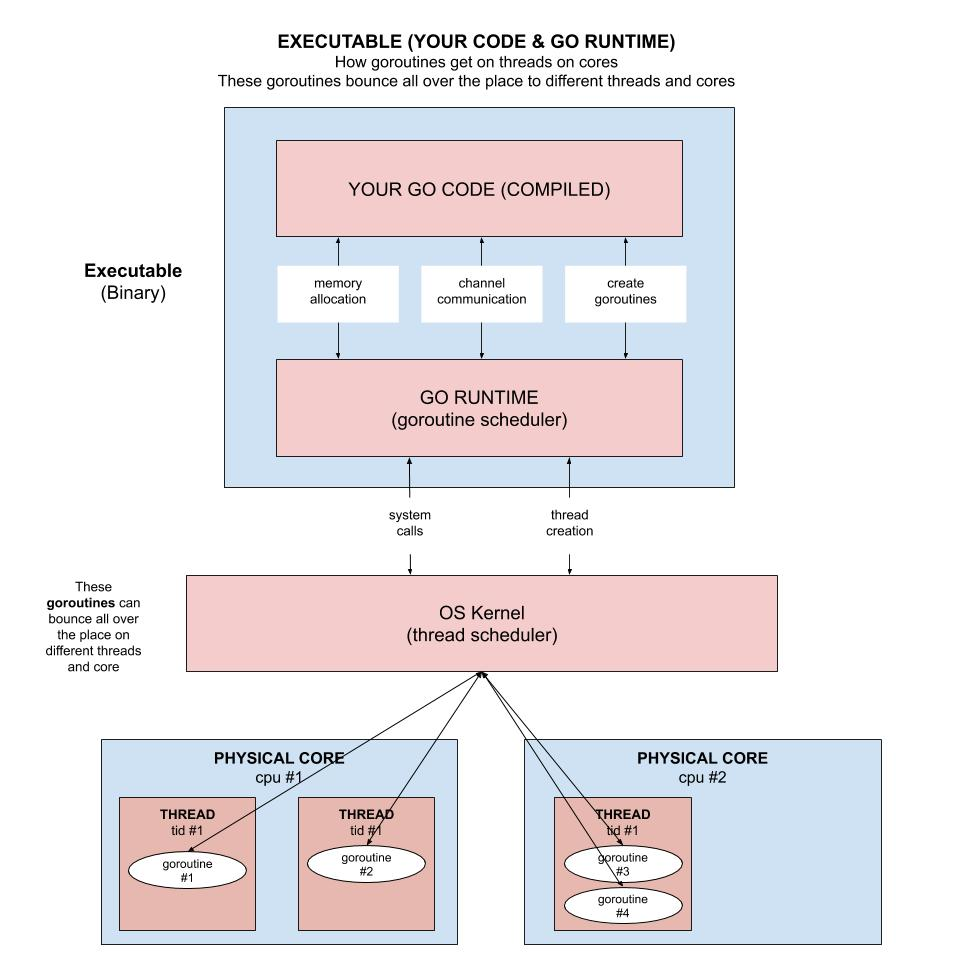
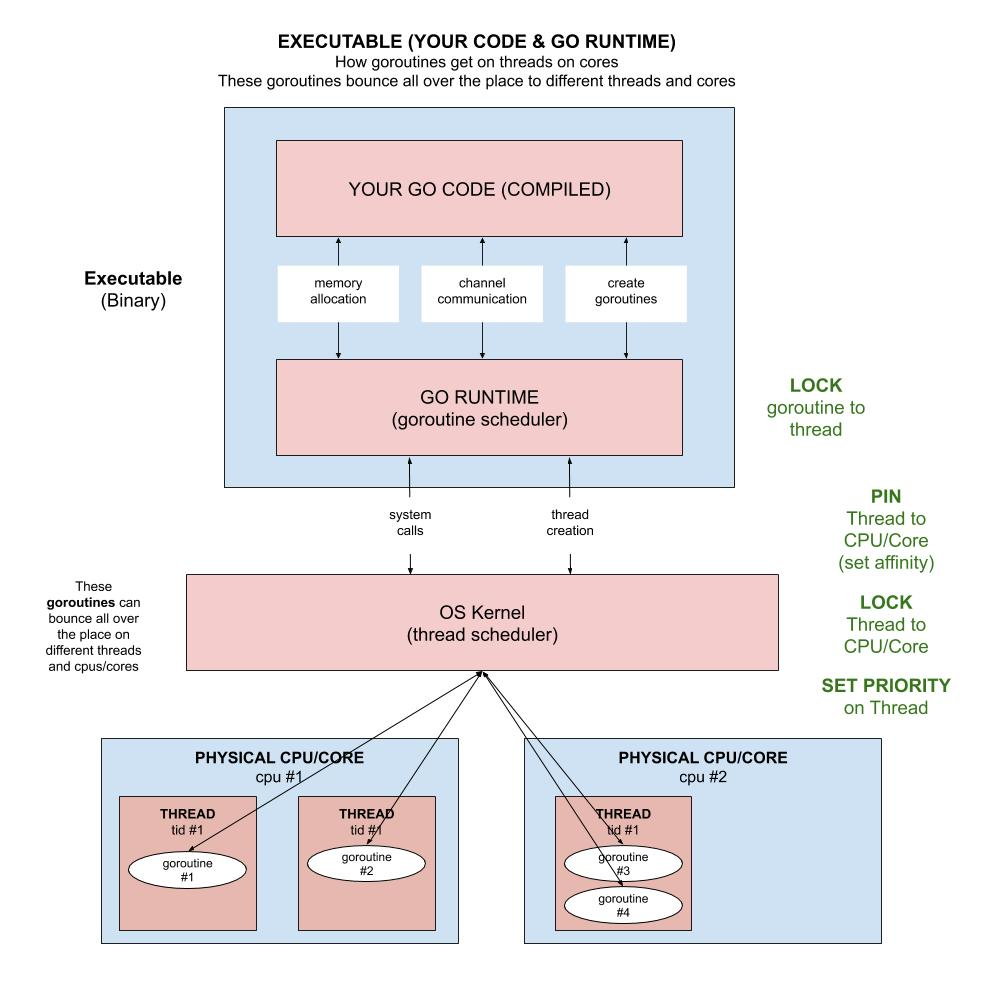
added cgo

Changed region(s): [[0.0913, 0.0311, 0.9738, 0.9959], [0.0304, 0.5913, 0.1522, 0.7158], [0.0913, 0.249, 0.1826, 0.3112]]

diff --git a/packages/flag/flag.go b/packages/flag/flag.go
@@ -23,6 +23,6 @@ func main() {
 	fmt.Printf("\n")
 	fmt.Printf("String flag is %s\n", *stringPtr)
 	fmt.Printf("Integer flag is %d\n", *integerPtr)
-	fmt.Printf("Integer flag is %t\n", *boolPtr)
+	fmt.Printf("Integer flag is %t\n\n", *boolPtr)
 
 }

diff --git a/cgo/simple-c-code/simple-c-code.go b/cgo/simple-c-code/simple-c-code.go
@@ -1,0 +1,14 @@
+package main
+
+//int Add(int a, int b){
+//    return a+b;
+//}
+import "C"
+import "fmt"
+
+func main() {
+	a := C.int(10)
+	b := C.int(20)
+	c := C.Add(a, b)
+	fmt.Println(c) // 30
+}

diff --git a/goroutines/goroutines-multi-core/README.md b/goroutines/goroutines-multi-core/README.md
@@ -1,14 +1,18 @@
 # goroutines-multi-core example
 
 `goroutines-multi-core`  _is an example of
-concurrency across multi-cores. It will find the total amount of prime numbers
-up to a number.  The data will show that lightweight goroutines are amazing._
+concurrency across multi-cores. You can play around with workers,
+threads, cpus/cores and nice to find the fastest performance.
+It will find the total amount of prime numbers up to a number._
+
+This program will show that **lightweight goroutines are amazing**.
 
 * [OVERVIEW](https://github.com/JeffDeCola/my-go-examples/tree/master/goroutines/goroutines-multi-core#overview)
 * [SETUP](https://github.com/JeffDeCola/my-go-examples/tree/master/goroutines/goroutines-multi-core#setup)
-* [FEATURES](https://github.com/JeffDeCola/my-go-examples/tree/master/goroutines/goroutines-multi-core#features)
+* [GO RUNTIME FEATURES](https://github.com/JeffDeCola/my-go-examples/tree/master/goroutines/goroutines-multi-core#go-runtime-features)
   * [FEATURE 1 - LOCK A GOROUTINE TO A THREAD](https://github.com/JeffDeCola/my-go-examples/tree/master/goroutines/goroutines-multi-core#feature-1---lock-a-goroutine-to-a-thread)
-  * [FEATURE 2 - PIN A GOROUTINE TO A CPU (set affinity)](https://github.com/JeffDeCola/my-go-examples/tree/master/goroutines/goroutines-multi-core#feature-2---pin-a-goroutine-to-a-cpu-set-affinity)
+* [OS KERNAL FEATURES](https://github.com/JeffDeCola/my-go-examples/tree/master/goroutines/goroutines-multi-core#os-kernal-features)
+  * [FEATURE 2 - PIN A THREAD TO A CPU (set affinity)](https://github.com/JeffDeCola/my-go-examples/tree/master/goroutines/goroutines-multi-core#feature-2---pin-a-thread-to-a-cpu-set-affinity)
   * [FEATURE 3 - LOCK A THREAD TO A CPU/CORE](https://github.com/JeffDeCola/my-go-examples/tree/master/goroutines/goroutines-multi-core#feature-3---lock-a-thread-to-a-cpucore)
   * [FEATURE 4 - SET PRIORITY ON THREAD](https://github.com/JeffDeCola/my-go-examples/tree/master/goroutines/goroutines-multi-core#feature-4---set-priority-on-thread)
 * [RUN](https://github.com/JeffDeCola/my-go-examples/tree/master/goroutines/goroutines-multi-core#run)
@@ -43,7 +47,7 @@ statistics of each process and core.
 
 // FEATURE 2 - PIN A GOROUTINE TO A CPU (set affinity)
     const useParticularCPUs = true          // Do you want to use particular CPUs?
-    var usetheseCPUs = []int{0,1}           // Which CPU/Cores to use. These will rotate
+    var usetheseCPUs = []int{0,1,2,3}       // Which CPU/Cores to use. These will rotate
 
 // FEATURE 3 - LOCK A THREAD TO A CPU/CORE
     const lockCore = true                   // locked the thread to a core (Done in C)
@@ -59,7 +63,7 @@ statistics of each process and core.
                                             // This must be divisible by the numberWorkers
 
 // BUFFER CHANNEL
-    var channelBufferSize = numberWorkers + 1 // How many channel buffers```
+    var channelBufferSize = numberWorkers + 1 // How many channel buffers
 ```
 
 The workload will simple split the workload (finding a prime number)
@@ -67,7 +71,7 @@ over the number of workers.  For example if you have
 5 workers and you are trying to find out how many numbers are prime under 1000,
 worker 1 will get numbers 1-200, worker 2, 201-400 and so on.
 
-## FEATURES
+## GO RUNTIME FEATURES
 
 I added some features you can play around to see what gives you the better performance.
 
@@ -85,9 +89,14 @@ if lockThread {
 }
 ```
 
-### FEATURE 2 - PIN A GOROUTINE TO A CPU (set affinity)
+## OS KERNAL FEATURES
+
+These require c code or system calls to the kernal.
+
+### FEATURE 2 - PIN A THREAD TO A CPU (set affinity)
 
 This is a little more tricky and needs a bit of C code.
+What its really doing is pinning a thread to a cpu.
 
 ```go
 // Set goroutine to a particular Core/CPU - Set affinity()
@@ -128,6 +137,8 @@ if setPriority {
 ```go
 go run goroutines-multi-core.go
 ```
+
+Simply press return to exit.
 
 Check a pid, nice levels and show threads,
 

diff --git a/README.md b/README.md
@@ -17,6 +17,7 @@ I organized everything (alphabetically) into these sections,
   * Functions
   * Interfaces
   * Methods
+* [CGO](https://github.com/JeffDeCola/my-go-examples#cgo)
 * [CLOUD SERVICES](https://github.com/JeffDeCola/my-go-examples#cloud-services)
 * [DATABASE](https://github.com/JeffDeCola/my-go-examples#database)
 * [GOROUTINES](https://github.com/JeffDeCola/my-go-examples#goroutines)
@@ -137,6 +138,12 @@ _All sections in alphabetical order._
 
   * tbd
 
+### CGO
+
+* [simple-c-code](https://github.com/JeffDeCola/my-go-examples/tree/master/cloud-services/simple-c-code)
+
+  _A very simple example to show you how to use c code in go._
+
 ### CLOUD SERVICES
 
 * [amazon-aws](https://github.com/JeffDeCola/my-go-examples/tree/master/cloud-services/amazon-aws)
@@ -171,8 +178,9 @@ _All sections in alphabetical order._
 
 ### GOROUTINES
 
-_go is written for concurrency (the go runtime scheduling
-goroutines on threads which the OS schedules these threads on cpu/cores)_
+_Go is written for concurrency.
+The go runtime schedules goroutines on threads.
+The OS schedules these threads on cpus/cores._
 
 * [goroutines-async-channel-receive-no-waiting](https://github.com/JeffDeCola/my-go-examples/tree/master/goroutines/goroutines-async-channel-receive-no-waiting)
 
@@ -186,7 +194,9 @@ goroutines on threads which the OS schedules these threads on cpu/cores)_
 
 * [goroutines-multi-core](https://github.com/JeffDeCola/my-go-examples/tree/master/goroutines/goroutines-multi-core)
 
-  _Concurrency across multi-cores._
+  _Concurrency across multiples cores.  You can play around with workers,
+  threads, cpus/cores and nice to find the fastest performance.
+  It will find the total amount of prime numbers up to a number._
 
 * [goroutines-waitgroup](https://github.com/JeffDeCola/my-go-examples/tree/master/goroutines/goroutines-waitgroup)
 
@@ -229,32 +239,32 @@ for packages I created. Refer to
 for the standard go packages_
 
 * [crypto/md5](https://github.com/JeffDeCola/my-go-examples/tree/master/packages/crypto-md5)
-  (standard)
+  _(standard)_
 
   _The crypto/md5 package is used for getting an md5 fingerprint from an ssh key._
 
 * [errors](https://github.com/JeffDeCola/my-go-examples/tree/master/packages/errors)
-  (github.com/pkg/errors)
+  _(github.com/pkg/errors)_
 
   _Error Handling using non-standard github.com/pkg/errors package._
 
 * [flag](https://github.com/JeffDeCola/my-go-examples/tree/master/packages/flag)
-  (standard)
+  _(standard)_
 
   _The flag package makes it easy to implement command-line flag parsing._
 
 * [fmt-scan](https://github.com/JeffDeCola/my-go-examples/tree/master/packages/fmt-scan)
-  (standard)
+  _(standard)_
 
   _The fmt package makes it easy to scan user input using fmt.Scan() by reading os.Stdin._
 
 * [logrus](https://github.com/JeffDeCola/my-go-examples/tree/master/packages/logrus)
-  (github.com/sirupsen/logrus)
+  _(github.com/sirupsen/logrus)_
 
   _Logging using non-standard logrus package._
 
 * [test-jeffshapes](https://github.com/JeffDeCola/my-go-examples/tree/master/packages/test-jeffshapes)
-  (github.com/JeffDeCola/my-go-packages/jeffshapes)
+  _(github.com/JeffDeCola/my-go-packages/jeffshapes)_
   
   _Testing the jeffshapes package (below)._
 

diff --git a/cgo/simple-c-code/README.md b/cgo/simple-c-code/README.md
@@ -1,0 +1,42 @@
+# simple-c-code example
+
+`simple-c-code` _is an example of
+of how to use c code in go._
+
+[GitHub Webpage](https://jeffdecola.github.io/my-go-examples/)
+
+## THE C CODE
+
+Here is a very simple c code example,
+
+```c
+int Add(int a, int b){
+    return a+b;
+```
+
+## IMPLEMENT WITH GO
+
+To implement using go use `import "C"`,
+
+```go
+package main
+
+//int Add(int a, int b){
+//    return a+b;
+//}
+import "C"
+import "fmt"
+
+func main() {
+    a := C.int(10)
+    b := C.int(20)
+    c := C.Add(a, b)
+    fmt.Println(c) // 30
+}
+```
+
+## RUN
+
+```go
+go run simple-c-code.go
+```

diff --git a/packages/flag/README.md b/packages/flag/README.md
@@ -10,13 +10,22 @@ package for more info.
 
 ## RUN
 
-Define flags using flag.String(), Bool(), Int(), etc.
+Define flags using,
+
+```go
+// STRING
+stringPtr := flag.String("s", "default", "This is the flag for a string")
+// INTEGER
+integerPtr := flag.Int("i", 1, "This is the flag for an integer")
+// BOOLEAN
+boolPtr := flag.Bool("b", false, "This is the flag for a boolean")
+```
 
 The following formats are permitted,
 
-* -flag
-* -flag=x
-* -flag x  // non-boolean flags only
+* -flagname
+* -flagname=x
+* -flagname x
 
 String,
 

diff --git a/packages/errors/README.md b/packages/errors/README.md
@@ -44,7 +44,7 @@ The beauty of the `github.com/pkg/errors` package is that it
 traces the error back to the source. That's why we use
 `fmt.Printf("Error is %+v\n", err)`.
 
-Since you check errors a lot, make an error checker,
+Since you check errors a lot, make an error checker function,
 
 ```go
 func checkErr(err error) {
@@ -64,6 +64,16 @@ func main() {
 
 ## RUN
 
+To get,
+
+```bash
+go get -u -v github.com/pkg/errors
+```
+
+Run,
+
 ```go
 go run errors.go
 ```
+
+Notice how it traces the error back to your original function.

diff --git a/jeffs-go-templates/jeffs-basic-go-template/README.md b/jeffs-go-templates/jeffs-basic-go-template/README.md
@@ -22,10 +22,11 @@ go get -u -v github.com/sirupsen/logrus
 go get -u -v github.com/pkg/errors
 ```
 
-The default flag i=43 which will be an error. Hence set the flag i to
+The default flag i=42 which will be an error. Hence set the flag i to
 any other integer,
 
 ```bash
 go run jeffs-basic-go-template.go
+go run jeffs-basic-go-template.go -i 42
 go run jeffs-basic-go-template.go -i 10
 ```

diff --git a/packages/test-jeffshapes/README.md b/packages/test-jeffshapes/README.md
@@ -5,6 +5,9 @@
 This package was created in my repo
 [my-go-packages](https://github.com/JeffDeCola/my-go-packages#jeffshapes).
 
+The code is
+[here](https://github.com/JeffDeCola/my-go-packages/blob/master/jeffshapes/jeffshapes.go).
+
 [GitHub Webpage](https://jeffdecola.github.io/my-go-examples/)
 
 ## HOW TO USE THE PACKAGE

diff --git a/goroutines/goroutines-async-channel-send-receive-waiting/README.md b/goroutines/goroutines-async-channel-send-receive-waiting/README.md
@@ -30,6 +30,8 @@ say = <-msgCh                               // ALSO WAITS/BLOCKS
 go run goroutines-async-channel-send-receive-waiting.go
 ```
 
+Simply press return to exit.
+
 Output is always,
 
 ```txt

diff --git a/packages/logrus/README.md b/packages/logrus/README.md
@@ -23,6 +23,14 @@ package for more info.  This is not a standard package.
 
 ## RUN
 
+To get,
+
+```bash
+go get -u -v github.com/sirupsen/logrus
+```
+
+Run,
+
 ```go
 go run logrus.go
 ```

diff --git a/goroutines/goroutines-async-channel-receive-no-waiting/README.md b/goroutines/goroutines-async-channel-receive-no-waiting/README.md
@@ -52,6 +52,8 @@ for {
 go run goroutines-async-channel-receive-no-waiting.go
 ```
 
+Simply press return to exit.
+
 Example output when receiver faster than sender,
 
 ```txt
